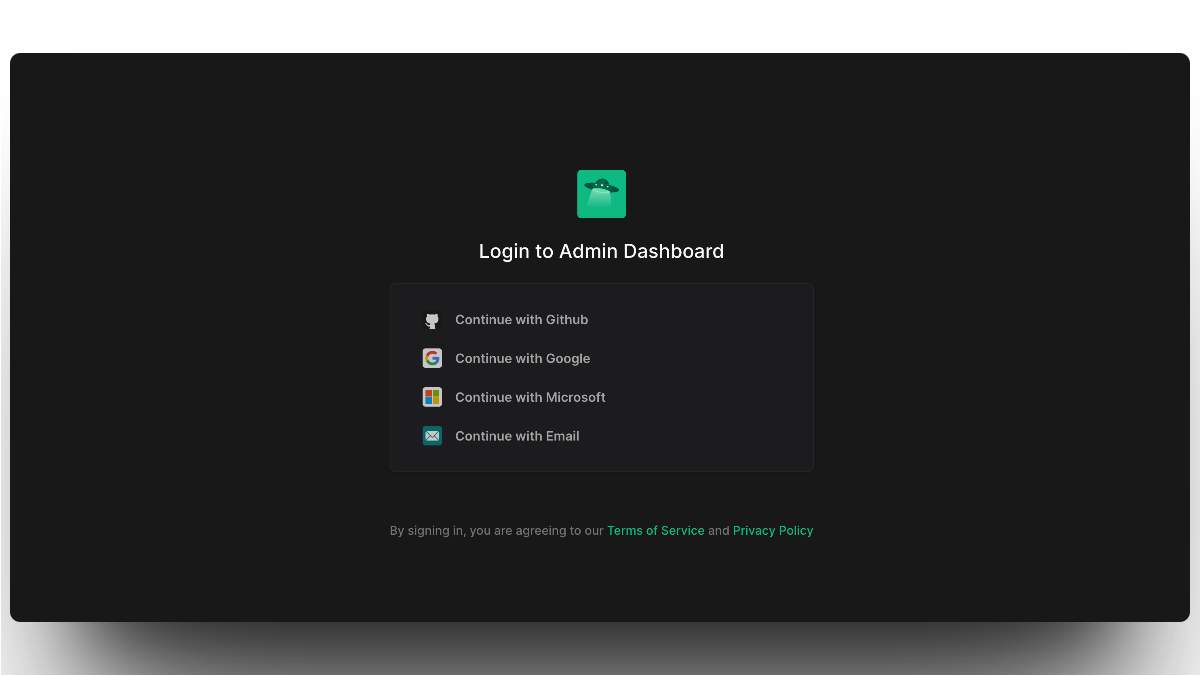
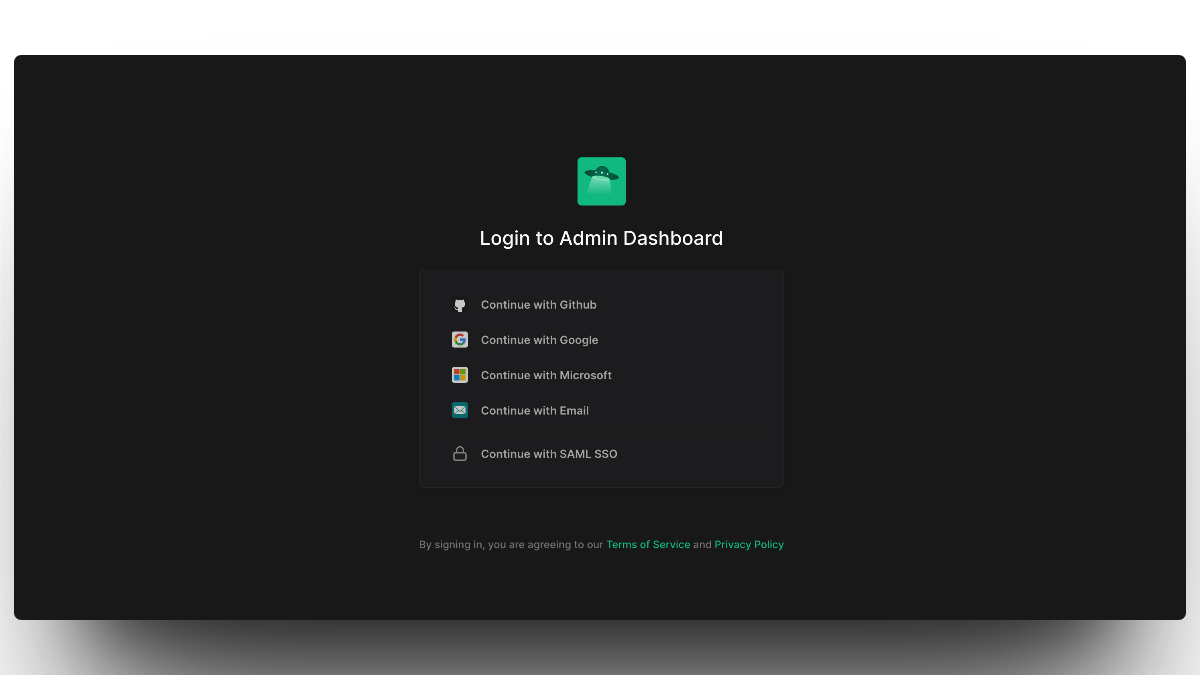
chore: enterprise docs

diff --git a/content/1.documentation/5.self-host/2.enterprise-edition/2.install-and-build.md b/content/1.documentation/5.self-host/2.enterprise-edition/2.install-and-build.md
@@ -39,41 +39,57 @@ Copy the contents of `.env.example` file found in the root directory of cloned r
 ```yaml
 #-----------------------Backend Config------------------------------#
 # Prisma Config
-DATABASE_URL=postgresql://postgres:testpass@hoppscotch-db:5432/hoppscotch # or replace with your database URL
+DATABASE_URL=postgresql://postgres:testpass@hoppscotch-db:5432/hoppscotch
+
+#ClickHouse Config
+ALLOW_AUDIT_LOGS=false
+CLICKHOUSE_HOST=http://clickhouse:8123
+CLICKHOUSE_USER=default
+CLICKHOUSE_PASSWORD=
 
 # Auth Tokens Config
-JWT_SECRET="secretcode123"
+JWT_SECRET=secret1233
 TOKEN_SALT_COMPLEXITY=10
 MAGIC_LINK_TOKEN_VALIDITY= 3
-REFRESH_TOKEN_VALIDITY="604800000" # Default validity is 7 days (604800000 ms) in ms
-ACCESS_TOKEN_VALIDITY="86400000" # Default validity is 1 day (86400000 ms) in ms
-SESSION_SECRET='anothersecretcode123'
+REFRESH_TOKEN_VALIDITY=604800000
+ACCESS_TOKEN_VALIDITY=86400000
+SESSION_SECRET=add some secret here
 
 # Hoppscotch App Domain Config
-REDIRECT_URL="http://localhost:3000"
-WHITELISTED_ORIGINS = "http://localhost:3170,http://localhost:3000,http://localhost:3100"
+REDIRECT_URL=http://localhost:3170/graphql
+WHITELISTED_ORIGINS=http://localhost:3170,http://localhost:3000,http://localhost:3100
+VITE_ALLOWED_AUTH_PROVIDERS=GOOGLE,GITHUB,MICROSOFT,EMAIL,SAML
 
 # Google Auth Config
-GOOGLE_CLIENT_ID="*****"
-GOOGLE_CLIENT_SECRET="*****"
-GOOGLE_CALLBACK_URL="http://localhost:3170/v1/auth/google/callback"
-GOOGLE_SCOPE="email,profile"
+GOOGLE_CLIENT_ID=**********
+GOOGLE_CLIENT_SECRET=**********
+GOOGLE_CALLBACK_URL=http://localhost:3170/v1/auth/google/callback
+GOOGLE_SCOPE=email,profile
+
 
 # Github Auth Config
-GITHUB_CLIENT_ID="*****"
-GITHUB_CLIENT_SECRET="*****"
-GITHUB_CALLBACK_URL="http://localhost:3170/v1/auth/github/callback"
-GITHUB_SCOPE="user:email"
+GITHUB_CLIENT_ID=**********
+GITHUB_CLIENT_SECRET=**********
+GITHUB_CALLBACK_URL=http://localhost:3170/v1/auth/github/callback
+GITHUB_SCOPE=user:email
 
 # Microsoft Auth Config
-MICROSOFT_CLIENT_ID="*****"
-MICROSOFT_CLIENT_SECRET="*****"
-MICROSOFT_CALLBACK_URL="http://localhost:3170/v1/auth/microsoft/callback"
-MICROSOFT_SCOPE="user.read"
+MICROSOFT_CLIENT_ID=**********
+MICROSOFT_CLIENT_SECRET=**********
+MICROSOFT_CALLBACK_URL=http://localhost:3170/v1/auth/microsoft/callback
+MICROSOFT_SCOPE=user.read
+
+SAML_ISSUER=**********
+SAML_AUDIENCE=nestjs-saml
+SAML_CALLBACK_URL=http://localhost:3170/v1/auth/saml/callback
+SAML_CERT=**********
+SAML_ENTRY_POINT=**********
+SAML_WANT_ASSERTIONS_SIGNED=true
+SAML_WANT_RESPONSE_SIGNED=false
 
 # Mailer config
-MAILER_SMTP_URL="smtps://user@domain.com:pass@smtp.domain.com"
-MAILER_ADDRESS_FROM='"From Name Here" <from@example.com>'
+MAILER_SMTP_URL=smtp://host.docker.internal:1025
+MAILER_ADDRESS_FROM=user@domain.in
 
 # Rate Limit Config
 RATE_LIMIT_TTL=60 # In seconds
@@ -90,12 +106,15 @@ VITE_ADMIN_URL=http://localhost:3100
 
 # Backend URLs
 VITE_BACKEND_GQL_URL=http://localhost:3170/graphql
-VITE_BACKEND_WS_URL=wss://localhost:3170/graphql
+VITE_BACKEND_WS_URL=ws://localhost:3170/graphql
 VITE_BACKEND_API_URL=http://localhost:3170/v1
 
 # Terms Of Service And Privacy Policy Links (Optional)
-VITE_APP_TOS_LINK=https://docs.hoppscotch.io/terms
-VITE_APP_PRIVACY_POLICY_LINK=https://docs.hoppscotch.io/privacy
+VITE_APP_TOS_LINK=https://docs.hoppscotch.io/support/terms
+VITE_APP_PRIVACY_POLICY_LINK=https://docs.hoppscotch.io/support/privacy
+
+
+ENTERPRISE_LICENSE_KEY=***********
 ```
 
 Let's understand the major environment variables:
@@ -108,16 +127,18 @@ Let's understand the major environment variables:
 6. `JWT_SECRET`, `SESSION_SECRET`: Secret Keys for security purposes
 7. `REDIRECT_URL`: Is a fallback URL to debug when the actual redirects fail
 8. `WHITELISTED_ORIGINS`: URLs of Hoppscotch backend, admin dashboard and the frontend app
-9. `MAILER_SMTP_URL`: The SMTP URL for email delivery
-10. `MAILER_ADDRESS_FROM`: The email address that you would be using
-11. `RATE_LIMIT_TTL`: The time it takes to refresh the maximum number of requests being received
-12. `RATE_LIMIT_MAX`: The maximum number of requests that Hoppscotch can handle under `RATE_LIMIT_TTL`
-13. `VITE_BASE_URL`: This is the URL where your deployment will be accesible from
-14. `VITE_SHORTCODE_BASE_URL`: A URL to generate shortcodes for sharing, can be same as `VITE_BASE_URL`
-15. `VITE_BACKEND_GQL_URL`: The URL for GraphQL within the instance
-16. `VITE_BACKEND_WS_URL`: The URL for WebSockets within the instance
-17. `VITE_BACKEND_API_URL`: The URL for REST APIs within the instance
-18. `VITE_APP_TOS_LINK` and `VITE_APP_PRIVACY_POLICY_LINK` are optional and is used to configure the links to the Terms & Conditions and Privacy Policy
+9. `VITE_ALLOWED_AUTH_PROVIDERS`: Allows you to specify which auth providers you want to enable
+10. `MAILER_SMTP_URL`: The SMTP URL for email delivery
+11. `MAILER_ADDRESS_FROM`: The email address that you would be using
+12. `RATE_LIMIT_TTL`: The time it takes to refresh the maximum number of requests being received
+13. `RATE_LIMIT_MAX`: The maximum number of requests that Hoppscotch can handle under `RATE_LIMIT_TTL`
+14. `VITE_BASE_URL`: This is the URL where your deployment will be accesible from
+15. `VITE_SHORTCODE_BASE_URL`: A URL to generate shortcodes for sharing, can be same as `VITE_BASE_URL`
+16. `VITE_BACKEND_GQL_URL`: The URL for GraphQL within the instance
+17. `VITE_BACKEND_WS_URL`: The URL for WebSockets within the instance
+18. `VITE_BACKEND_API_URL`: The URL for REST APIs within the instance
+19. `VITE_APP_TOS_LINK` and `VITE_APP_PRIVACY_POLICY_LINK` are optional and is used to configure the links to the Terms & Conditions and Privacy Policy
+20. `ENTERPRISE_LICENSE_KEY`: The license key required to use Hoppscotch Enterprise
 
 Third party auth configs have to be obtained from the respective providers. Hoppscotch requires all three auth providers to be configured so that you can start using it. [Read more](/documentation/self-host/enterprise-edition/prerequisites#oauth).
 
@@ -167,14 +188,3 @@ docker compose up hoppscotch-backend # Runs the backend server up
 docker compose up hoppscotch-sh-admin # Runs the self hosted server up (preset opens in port 3100)
 docker compose up hoppscotch-app # Runs the main frontend app up
 ```
-
-## Accessing Hoppscotch
-
-Once everything is setup you can access:
-
-::list{type="success"}
-
-- Hoppscotch app at: `http://localhost:3000`
-- Hoppscotch admin dashboard at: `http://localhost:3100`
-
-::

diff --git a/content/1.documentation/5.self-host/2.enterprise-edition/1.prerequisites.md b/content/1.documentation/5.self-host/2.enterprise-edition/1.prerequisites.md
@@ -8,7 +8,7 @@ Hoppscotch is a self-hosted API development platform, packaged as a set of Docke
 
 ## Enterprise License Key
 
-To get an enterprise license key, you will need to purchase a license from the [Hoppscotch Enterprise Store](http://enterprise.hoppscotch.com). Once you have purchased a license, you will receive an email with the license key. You can also find the license key in your [Hoppscotch Enterprise Dashboard](https://enterprise.hoppscotch.com/dashboard).
+To start using Hoppscotch enterprise, you will need to purchase a license from the [Hoppscotch Enterprise Store](http://enterprise.hoppscotch.com). Once you have purchased a license, you will receive an email with the license key. You can also find the license key in your [Hoppscotch Enterprise Dashboard](https://enterprise.hoppscotch.com/dashboard).
 
 ::alert{type="info"}
 ::list{type="info"}
@@ -149,7 +149,19 @@ Hoppscotch provides you with the ability to choose which authentication provider
 
 `VITE_ALLOWED_AUTH_PROVIDERS = GOOGLE, GITHUB, MICROSOFT, EMAIL`.
 
-### Configuring thirf party providers
+### Configuring SAML
+
+```
+SAML_ISSUER=**********
+SAML_AUDIENCE=nestjs-saml
+SAML_CALLBACK_URL=http://localhost:3170/v1/auth/saml/callback
+SAML_CERT=**********
+SAML_ENTRY_POINT=**********
+SAML_WANT_ASSERTIONS_SIGNED=true
+SAML_WANT_RESPONSE_SIGNED=false
+```
+
+### Configuring third party providers
 
 To configure the third party authentication, you will need to generate a valid OAuth client ID and client secret for the OAuth provider of your choice. You will also need to provide a valid callback URL for the OAuth provider.
 

diff --git a/content/1.documentation/5.self-host/2.enterprise-edition/3.access-and-setup.md b/content/1.documentation/5.self-host/2.enterprise-edition/3.access-and-setup.md
@@ -1,3 +1,33 @@
 ---
-title: Access and setup
+title: Access and Setup
 ---
+
+# Access and Setup
+
+After successfully running the necessary containers, the next step involves creating an administrator account to manage Hoppscotch. The system automatically designates the first user who logs in through the admin dashboard as the administrator.
+
+## Creating an Administrator Account
+
+1. Open your web browser and navigate to `http://localhost:3100`.
+2. This will grant you access to the admin dashboard.
+3. Log in using your credentials or create a new account.
+4. The first user to log in will be given administrator privileges.
+
+![Login to Hoppscotch Admin Dashboard](/images/self-host/enterprise-edition/admin-dashboard-login.png)
+
+::card
+#title
+[Hoppscotch Admin Dashboard Guide](/documentation/self-host/enterprise-edition/admin-dashboard)
+#description
+Prerequisites to self host Hoppscotch Enterprise on your own infrastructure.
+::
+
+
+## Starting the Hoppscotch App
+
+With the administrator account set up, you can now start using the Hoppscotch app for API testing and development.
+
+1. Open a new browser tab and visit `http://localhost:3000`.
+2. Begin testing and developing your APIs seamlessly with Hoppscotch.
+
+Happy API testing!

diff --git a/content/1.documentation/5.self-host/2.enterprise-edition/0.getting-started.md b/content/1.documentation/5.self-host/2.enterprise-edition/0.getting-started.md
@@ -6,7 +6,7 @@ title: Getting started
 
 # Self-Host Hoppscotch Enterprise Edition
 
-This section will help you get started with self-hosting your instance of Hoppscotch. If you are looking to self-host your instance of Hoppscotch you will need to have to install a few other dependencies. Go through our prerequisite guide below and install all the required dependencies and have the required information ready.
+This section will help you get started with self-hosting your instance of Hoppscotch Enterprise. If you are looking to self-host your instance of Hoppscotch you will need to have to install a few other dependencies. Go through our prerequisite guide below and install all the required dependencies and have the required information ready.
 
 ::card
 #title

diff --git a/content/1.documentation/5.self-host/1.community-edition/1.prerequisites.md b/content/1.documentation/5.self-host/1.community-edition/1.prerequisites.md
@@ -137,7 +137,7 @@ Hoppscotch provides you with the ability to choose which authentication provider
 
 `VITE_ALLOWED_AUTH_PROVIDERS = GOOGLE, GITHUB, MICROSOFT, EMAIL`.
 
-### Configuring thirf party providers
+### Configuring third party providers
 
 To configure the third party authentication, you will need to generate a valid OAuth client ID and client secret for the OAuth provider of your choice. You will also need to provide a valid callback URL for the OAuth provider.
 

diff --git a/content/1.documentation/5.self-host/2.enterprise-edition/4.admin-dashboard.md b/content/1.documentation/5.self-host/2.enterprise-edition/4.admin-dashboard.md
@@ -42,3 +42,7 @@ The manage users page is where you can see all the users in your platform. You c
 Create, edit, and delete teams. You can also see the details of the teams and the users in the team.
 
 ![Admin Dashboard create a team](/images/self-host/enterprise-edition/admin-create-team.png)
+
+## License Status
+
+## Audit Logs
